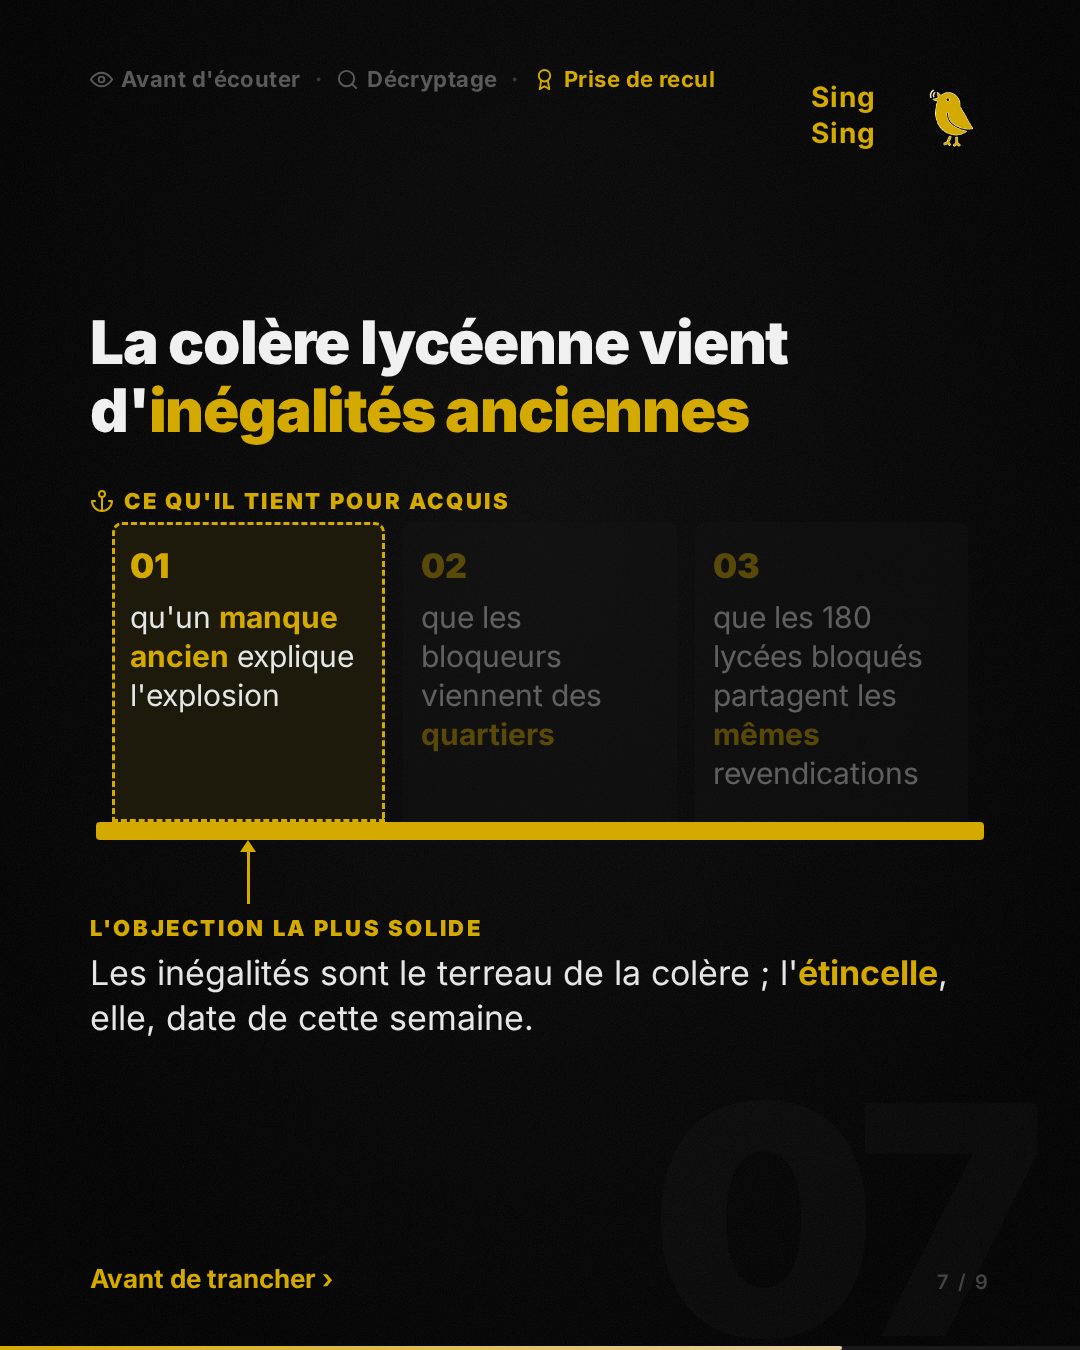
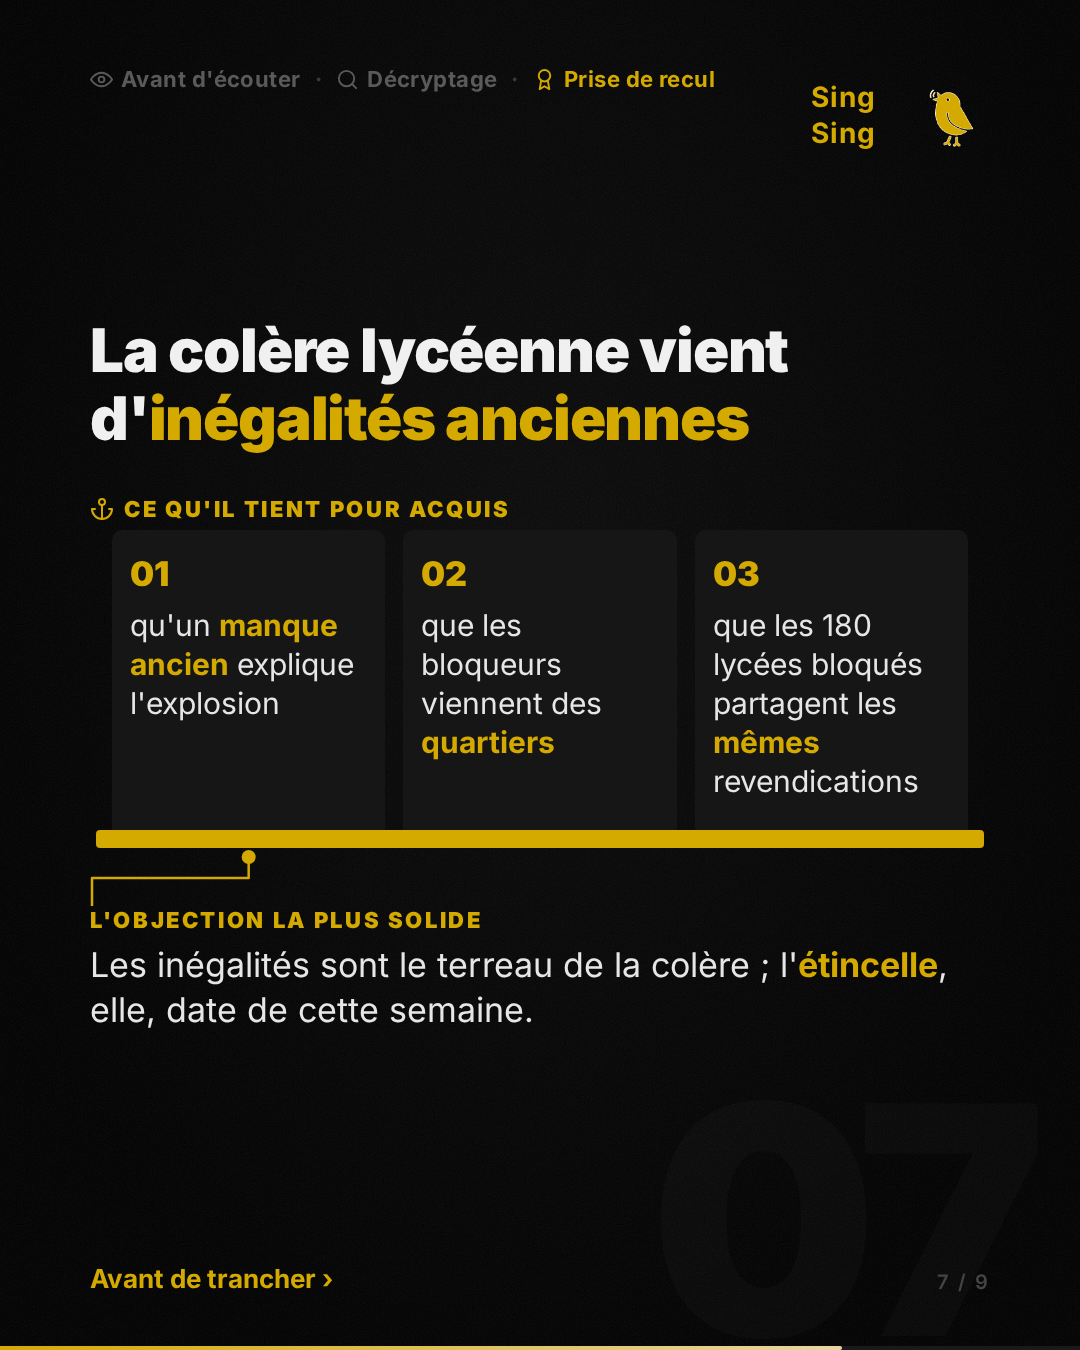
chore(samples): podcast_1 slide 7 with the leader line

Changed region(s): [[0.0917, 0.4044, 0.9167, 0.7778], [0.0917, 0.2178, 0.7333, 0.56], [0.7333, 0.6844, 0.8861, 0.7467]]

diff --git a/samples/podcasts/podcast_1/instagram_carousel_optimized/html/07_socle.html b/samples/podcasts/podcast_1/instagram_carousel_optimized/html/07_socle.html
@@ -408,10 +408,10 @@ body {
 .trk svg { width: 23px; height: 23px; stroke: currentColor; fill: none; stroke-width: 2; stroke-linecap: round; stroke-linejoin: round; }
 .trk-sep { color: #3a3a3a; }
 /* The argument drawn as a structure: the thesis as the slide's title, the
-   présupposés it rests on as pillars over a base, the objection below. When the
-   objection names the pillar it weakens (`target`, 1-based), that pillar is
-   outlined, the others dim, and an arrow runs from the objection up to it —
-   the link is drawn, not left to a metaphor the reader has to decode. */
+   présupposés it rests on as equal pillars over a base, the objection below.
+   When the objection names the pillar it weakens (`target`, 1-based), a thin
+   leader line runs from the objection to a dot under that pillar, like a note
+   on a diagram: the link is drawn, and no pillar outranks the others. */
 .stage { flex: 1; display: flex; flex-direction: column; justify-content: center; }
 .head { font-size: 60px; font-weight: 900; line-height: 1.12; letter-spacing: -0.02em; color: #f0f0f0; text-wrap: balance; }
 .head strong, .pillar strong, .objection strong { color: #d4aa00; }
@@ -422,14 +422,11 @@ body {
 .pillar { background: #161616; border-radius: 10px 10px 0 0; padding: 22px 18px 26px;
   min-height: 300px; font-size: 30px; line-height: 1.3; color: #e6e6e6; }
 .pillar .n { display: block; font-size: 34px; font-weight: 900; color: #d4aa00; margin-bottom: 10px; }
-.pillar.dim { opacity: .38; }
-.pillar.target { outline: 3px dashed #d4aa00; outline-offset: -3px; background: #1d1a0c; }
 .base { height: 18px; background: #d4aa00; border-radius: 4px; margin: 0 6px; }
-.arrow { height: 64px; display: flex; justify-content: center; }
-.arrow i { position: relative; width: 3px; height: 54px; margin-top: 10px; background: #d4aa00; }
-.arrow i::before { content: ''; position: absolute; left: -7px; top: -10px; border: 8.5px solid transparent;
-  border-bottom: 12px solid #d4aa00; border-top: 0; }
-.objection { margin-top: 10px; font-size: 34px; line-height: 1.32; color: #e6e6e6; text-wrap: pretty; }
+.leader { display: block; width: 900px; height: 58px; }
+.leader path { fill: none; stroke: #d4aa00; stroke-width: 2.5; stroke-linejoin: round; }
+.leader circle { fill: #d4aa00; }
+.objection { margin-top: 0; font-size: 34px; line-height: 1.32; color: #e6e6e6; text-wrap: pretty; }
 .objection.free { margin-top: 64px; }
 </style>
 </head>
@@ -454,12 +451,13 @@ body {
     <div class="under">
       <span class="lbl"><svg viewBox="0 0 24 24"><circle cx="12" cy="5" r="3"/><line x1="12" y1="22" x2="12" y2="8"/><path d="M5 12H2a10 10 0 0 0 20 0h-3"/></svg>Ce qu&#39;il tient pour acquis</span>
       <div class="cols" style="grid-template-columns: repeat(3, 1fr);">
-        <div class="pillar target"><span class="n">01</span>qu&#39;un <strong>manque ancien</strong> explique l&#39;explosion</div><div class="pillar dim"><span class="n">02</span>que les bloqueurs viennent des <strong>quartiers</strong></div><div class="pillar dim"><span class="n">03</span>que les 180 lycées bloqués partagent les <strong>mêmes</strong> revendications</div>
+        <div class="pillar"><span class="n">01</span>qu&#39;un <strong>manque ancien</strong> explique l&#39;explosion</div><div class="pillar"><span class="n">02</span>que les bloqueurs viennent des <strong>quartiers</strong></div><div class="pillar"><span class="n">03</span>que les 180 lycées bloqués partagent les <strong>mêmes</strong> revendications</div>
       </div>
       <div class="base"></div>
-      <div class="cols" style="grid-template-columns: repeat(3, 1fr);">
-        <div class="arrow"><i></i></div><div class="arrow"></div><div class="arrow"></div>
-      </div>
+      
+      
+      
+      <svg class="leader" viewBox="0 0 900 58"><circle cx="158.66666666666666" cy="9" r="7"/><path d="M158.66666666666666 9 V30 H2 V58"/></svg>
     </div>
     <div class="objection"><span class="lbl">L&#39;objection la plus solide</span>Les inégalités sont le terreau de la colère ; l&#39;<strong>étincelle</strong>, elle, date de cette semaine.</div>
   </div>
